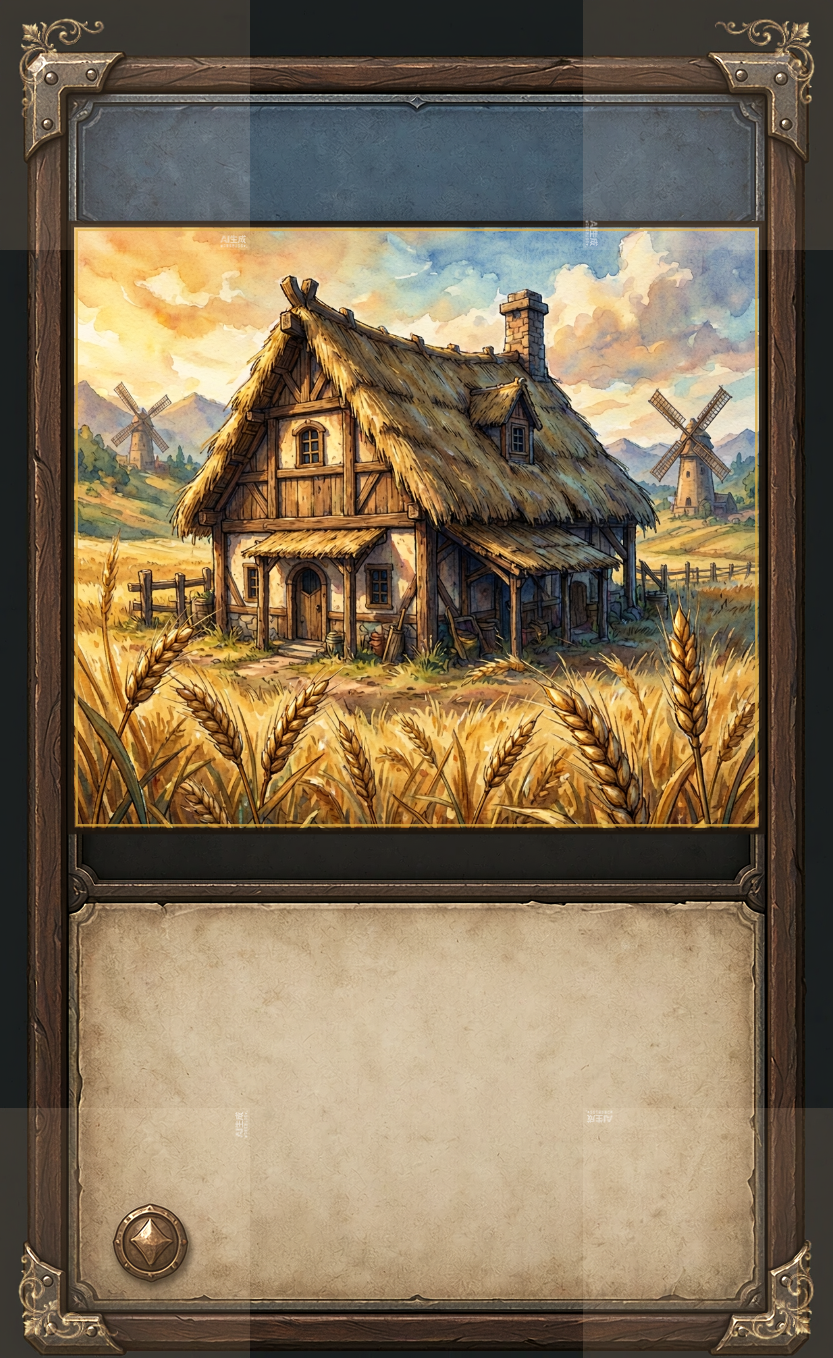
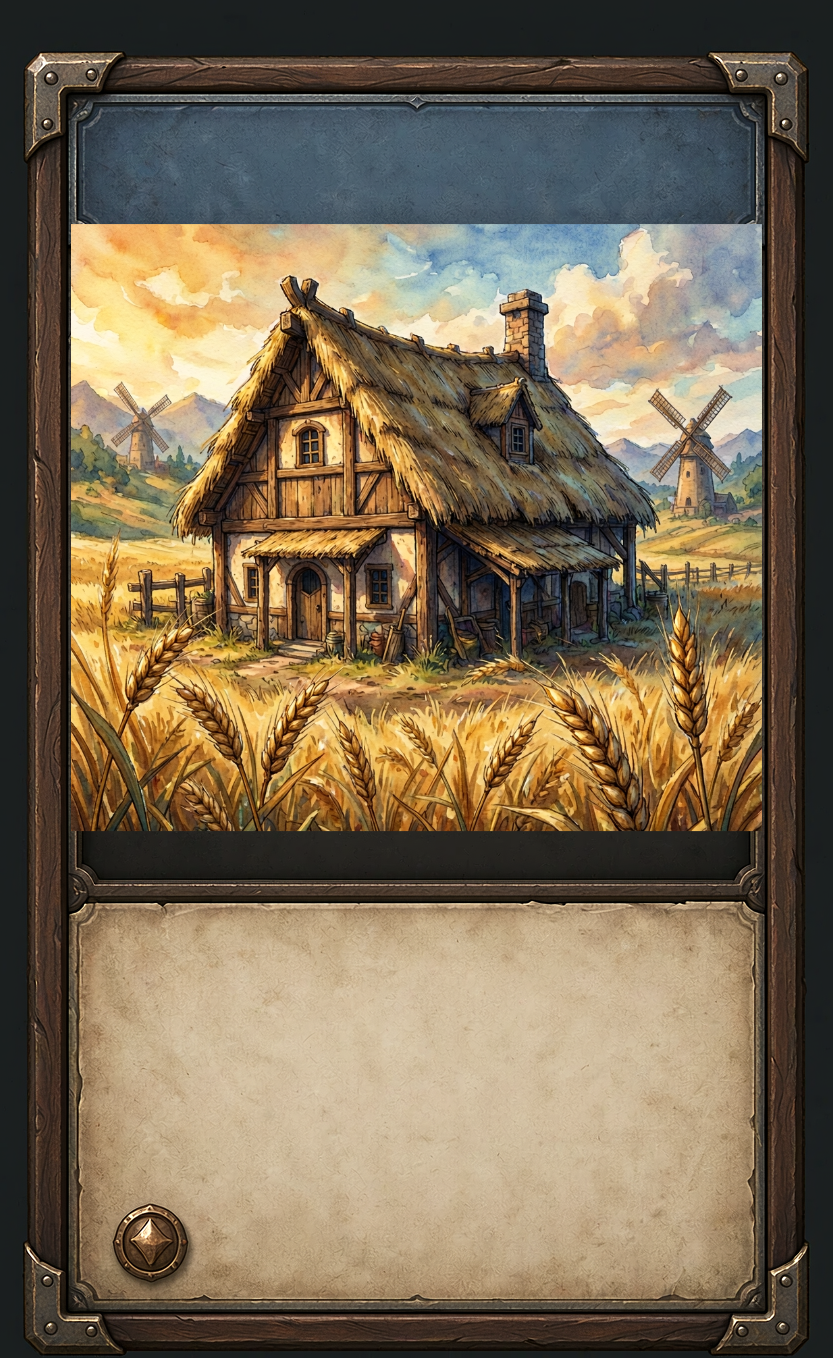
Revert "卡框精修 B（本地）：窗口双线内衬 + 四角金角花（screen 混合），角花占比 30%"
This reverts commit 2fb1b67ca0bc20e34b83f9c306948bcad5c9c0db.

diff --git a/卡牌建城demo/test/_compose_card.js b/卡牌建城demo/test/_compose_card.js
@@ -15,9 +15,6 @@ const SCENES = [
     const frame = new Image();
     frame.src = 'assets/ui/card-frame-v3.png';
     await frame.decode();
-    const orn = new Image();                    // 角花（深底金花，screen 混合融入木框）
-    orn.src = 'assets/ui/ornament-raw.png';
-    await orn.decode();
     const out = [];
     for (const s of SCENES) {
       const art = new Image();
@@ -36,21 +33,6 @@ const SCENES = [
       g.beginPath(); g.rect(wx, wy, ww, wh); g.clip();
       g.drawImage(art, wx + (ww - aw) / 2, wy + (wh - ah) / 2, aw, ah);
       g.restore();
-      // ★ 内衬描边：窗口双线（外深内金）—— 精修 B
-      g.strokeStyle = 'rgba(30,22,14,.9)'; g.lineWidth = Math.max(2, cv.width * 0.008);
-      g.strokeRect(wx, wy, ww, wh);
-      g.strokeStyle = 'rgba(217,169,63,.8)'; g.lineWidth = Math.max(1, cv.width * 0.003);
-      g.strokeRect(wx + cv.width * 0.007, wy + cv.width * 0.007, ww - cv.width * 0.014, wh - cv.width * 0.014);
-      // ★ 四角角花：screen 混合（深底融进木框，金花叠加），源为左上角花旋转四角
-      const osize = cv.width * 0.30;
-      g.globalCompositeOperation = 'screen';
-      [[0, 0, 0], [cv.width, 0, Math.PI / 2], [cv.width, cv.height, Math.PI], [0, cv.height, -Math.PI / 2]]
-        .forEach(function (cn) {
-          g.save(); g.translate(cn[0], cn[1]); g.rotate(cn[2]);
-          g.drawImage(orn, 0, 0, osize, osize);
-          g.restore();
-        });
-      g.globalCompositeOperation = 'source-over';
       out.push({ name: s.out, url: cv.toDataURL('image/png') });
     }
     return out;
